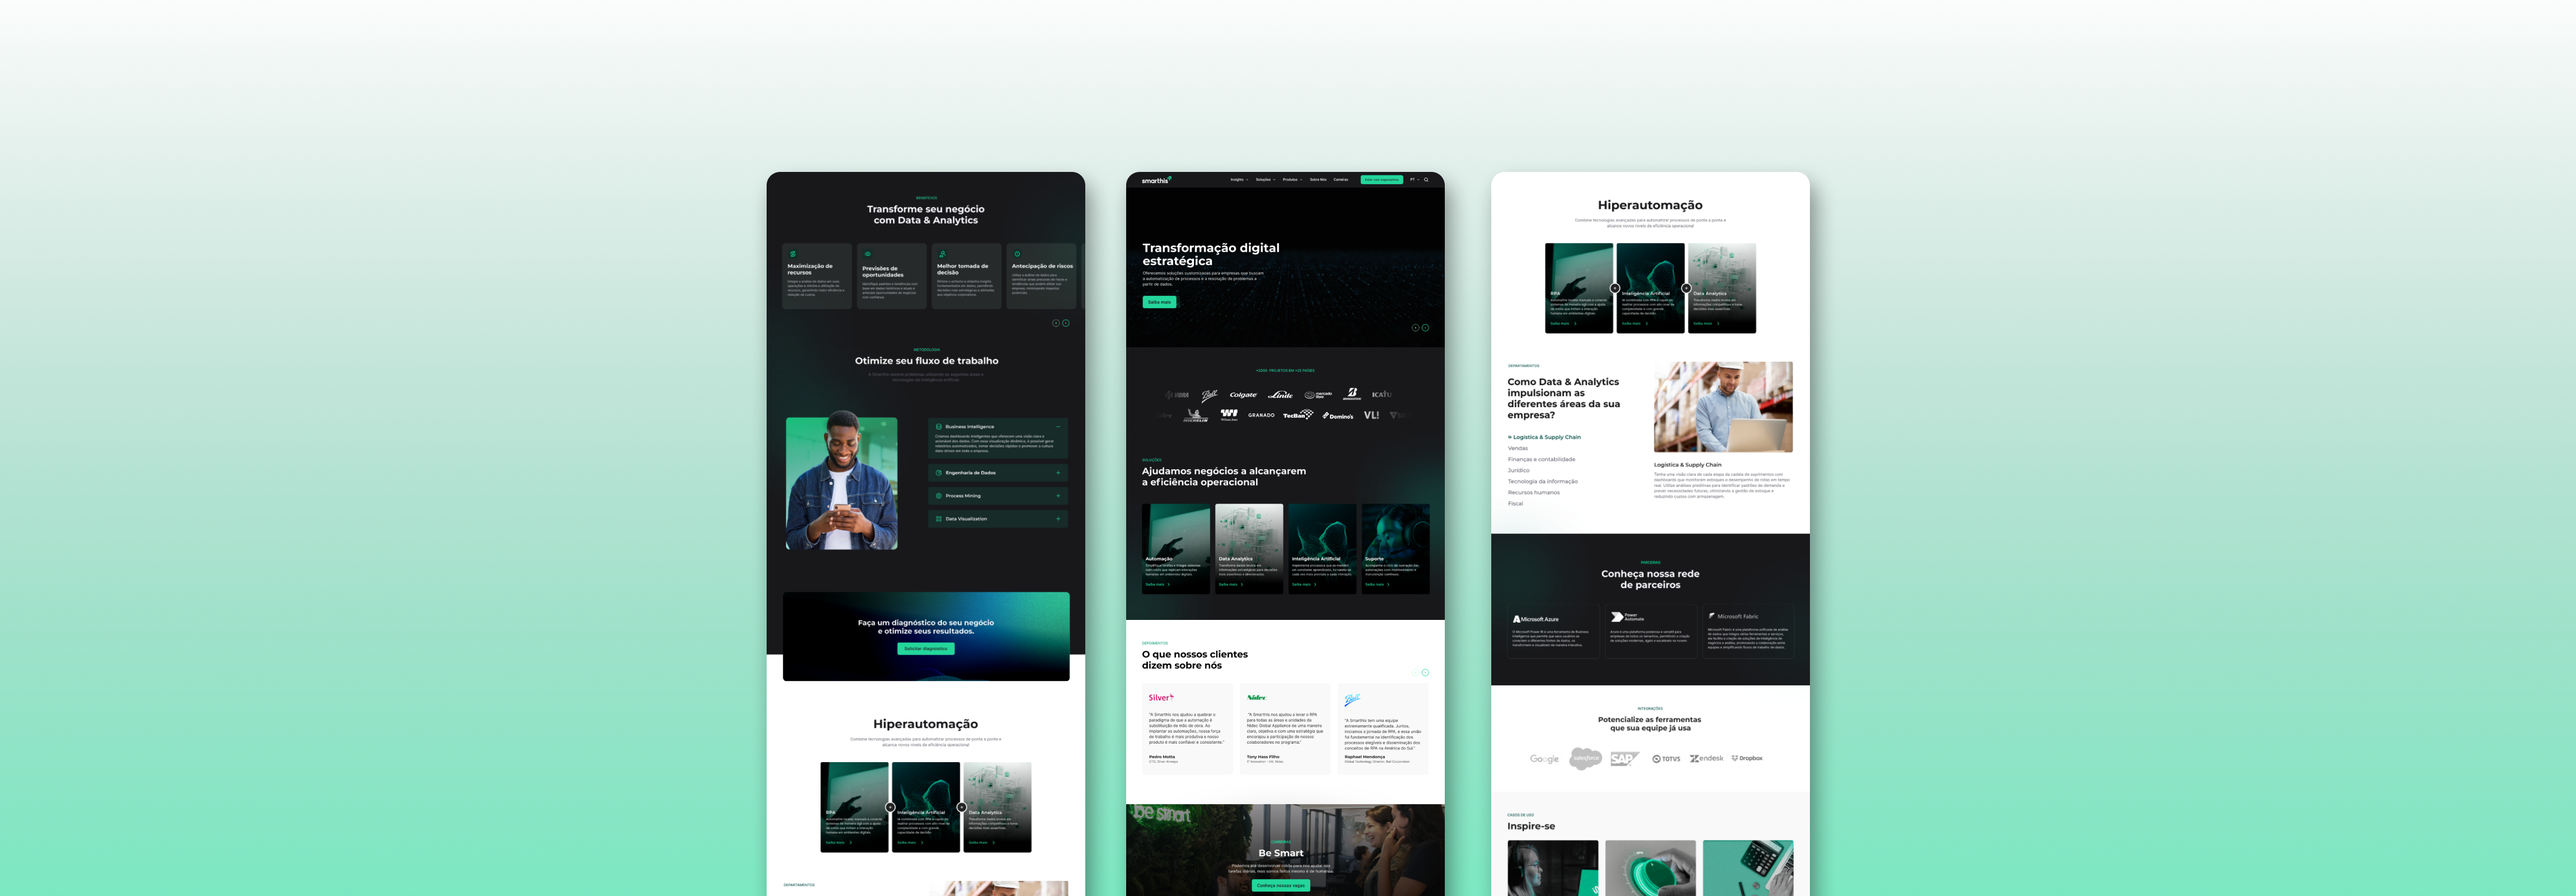
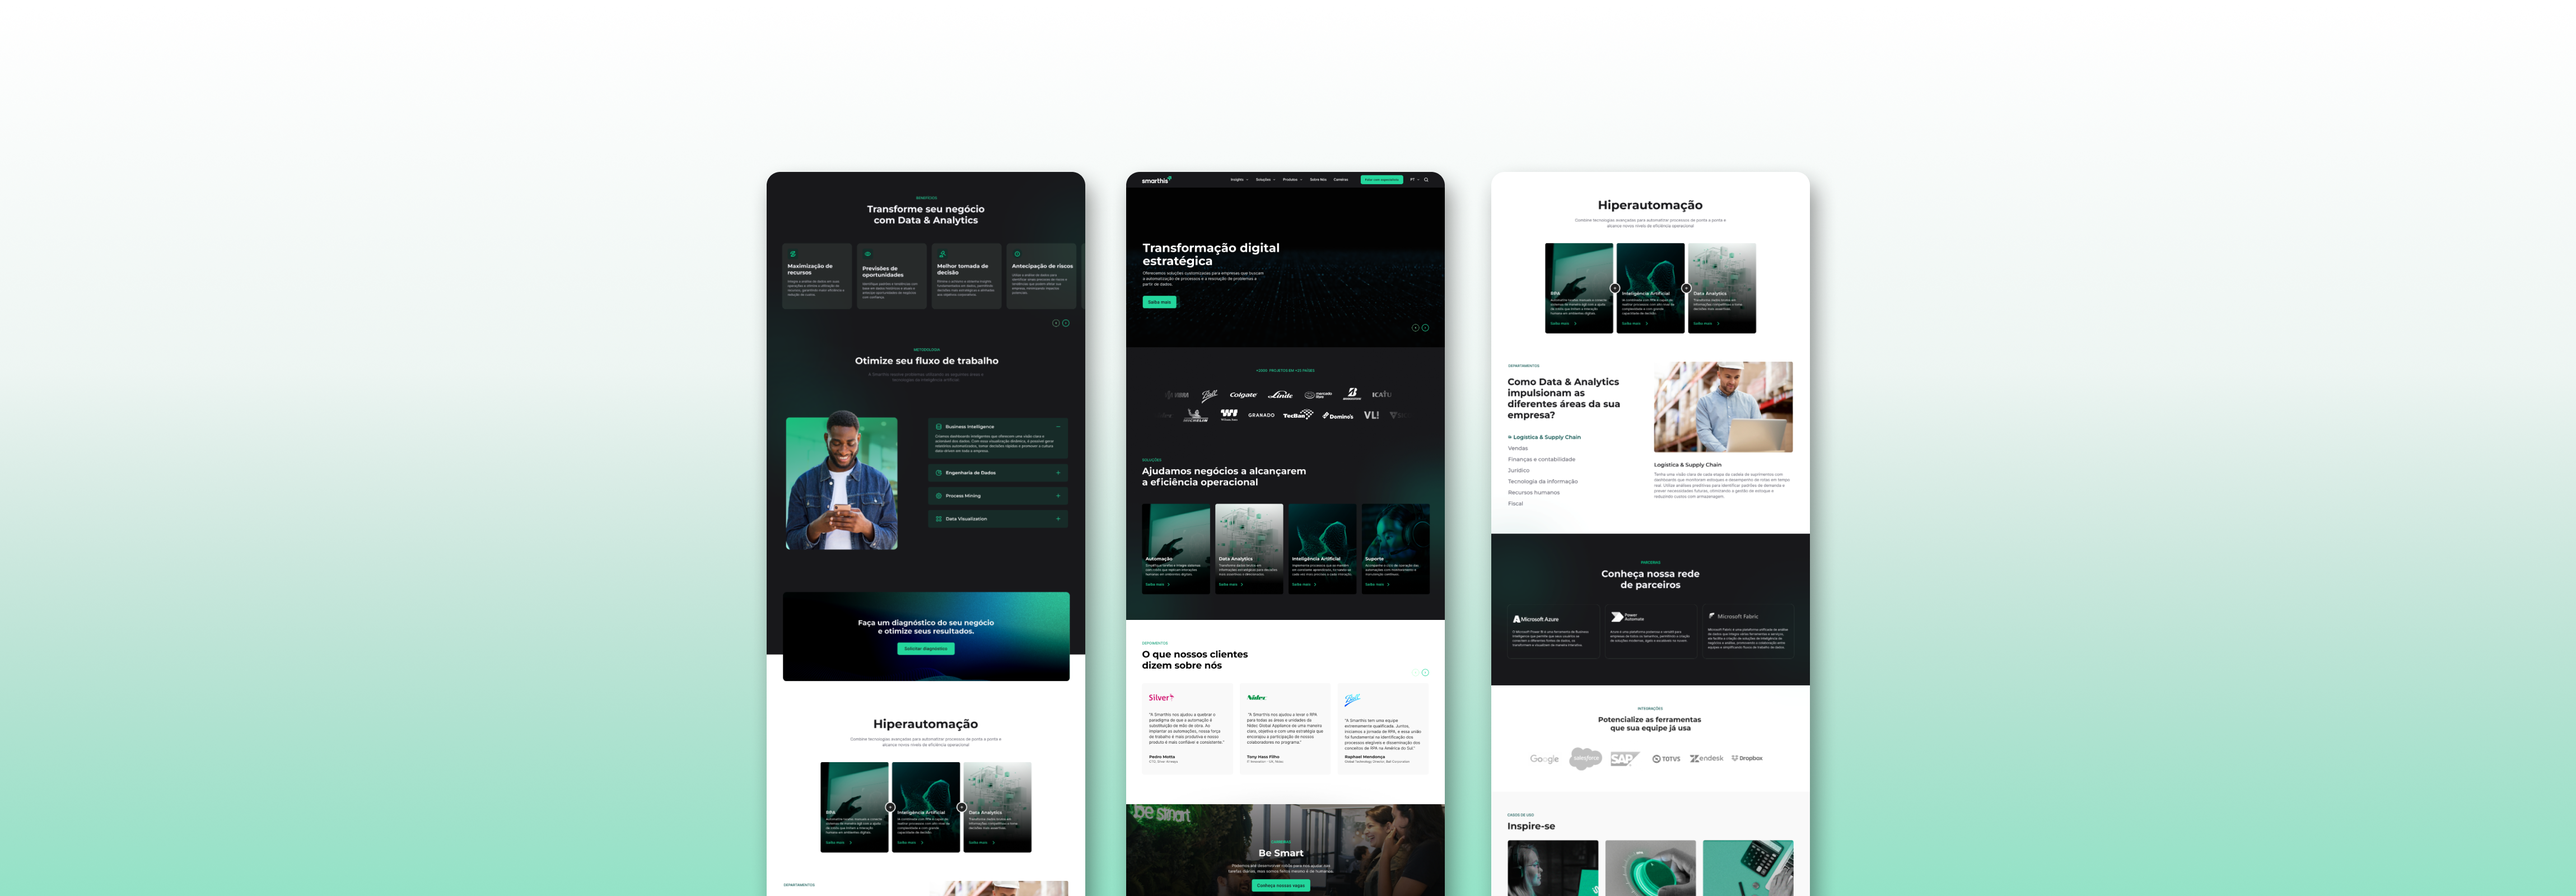
new header

diff --git a/src/projects/uxui/siteinstitucional.js b/src/projects/uxui/siteinstitucional.js
@@ -3,7 +3,7 @@ const siteinstitucional = { //todo projeto é necessário mudar o nome do const
     title: "Site Institucional - Smarthis", //o título tem que ser exatamente igual ao nome do arquivo, se não dá ruim
     year: "2024",
     link: "smarthis.com", //opcional 
-    color: "bg-[#212B36] dark:bg-[#292929]", //cores do projeto, só escolher no tailwind
+    color: "bg-[#2BA67C] dark:bg-[#204E40]", //cores do projeto, só escolher no tailwind
     image: `${process.env.PUBLIC_URL}/img/photos/CoverSmarthis.jpg`, //imagem de fundo do hero
     thumb: `${process.env.PUBLIC_URL}/img/photos/cover-smarthis2.png`, //thumbnail
     description:
